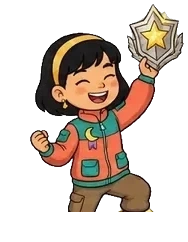
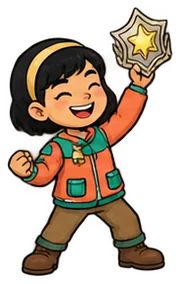
Repair winner sprites and constrain result artwork

diff --git a/index.html b/index.html
@@ -77,7 +77,7 @@ body.running #stage{cursor:default}
 .stageWrap:fullscreen .result{inset:auto}
 .stageWrap:fullscreen .card{padding:clamp(20px,4vh,46px) clamp(24px,5vw,68px) clamp(16px,3vh,36px);max-width:min(85vw,148vh)}
 .stageWrap:fullscreen .card .name{font-size:clamp(28px,min(7vw,13vh),110px)}
-.stageWrap:fullscreen .card img{height:min(17vw,26vh)}
+.stageWrap:fullscreen .card img{width:min(38vw,58vh,100%);height:min(17vw,26vh)}
 .stageWrap:fullscreen .btns .candy{min-height:44px;padding:8px 18px;font-size:clamp(14px,2.8vh,24px)}
 .stageWrap:fullscreen .btns .btnGo{min-width:14ch}
 @media (pointer:coarse){
@@ -143,7 +143,7 @@ body.running #stage{cursor:default}
   background:linear-gradient(180deg,#9734cc,#67188e);color:#fff;font-family:var(--title);
   font-size:2.6cqw;line-height:1.2;font-weight:800;padding:.65cqw 2.8cqw;border-radius:999px;
   box-shadow:0 .35cqw 0 #48125f,0 0 0 .22cqw #ffd84a}
-.card img{height:15.5cqw;display:block;margin:0 auto;filter:drop-shadow(0 0 2.2cqw #ffc844a8) drop-shadow(0 .5cqw .5cqw #0003)}
+.card img{width:min(35cqw,100%);height:15.5cqw;object-fit:contain;display:block;margin:0 auto;filter:drop-shadow(0 0 2.2cqw #ffc844a8) drop-shadow(0 .5cqw .5cqw #0003)}
 .card .name{font-family:var(--title);font-size:6.6cqw;font-weight:800;line-height:1.15;margin:.6cqw 0 1.65cqw;overflow-wrap:anywhere;
   color:#31204e;text-shadow:0 .2cqw 0 #ffda76}
 @keyframes celebrate-rays{from{transform:scale(.72) rotate(-8deg);opacity:0}to{transform:scale(1);opacity:1}}

diff --git a/sw.js b/sw.js
@@ -1,4 +1,4 @@
-const CACHE_NAME = 'name-picker-vol2-v19';
+const CACHE_NAME = 'name-picker-vol2-v20';
 const PRECACHE = [
   "./",
   "./index.html",
